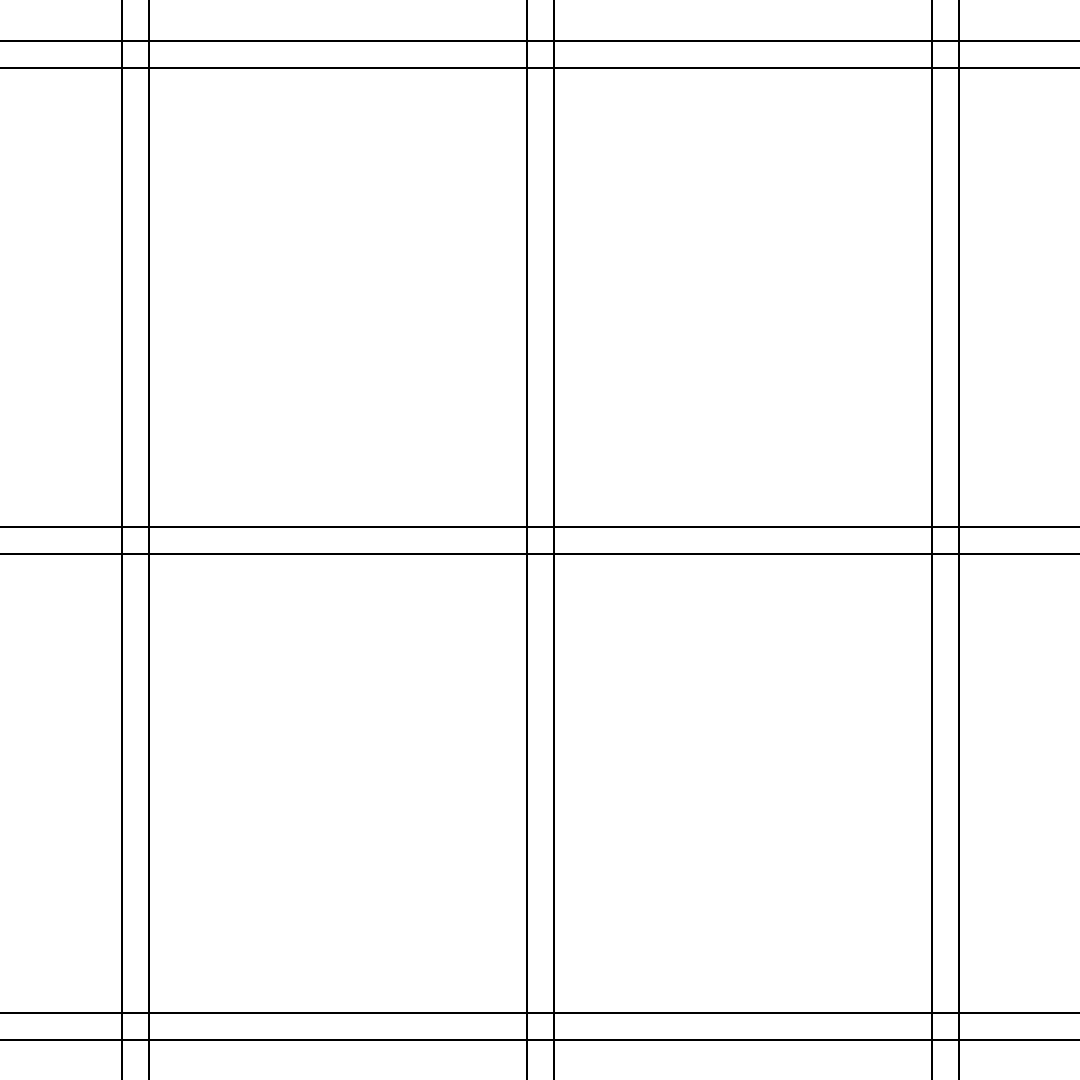
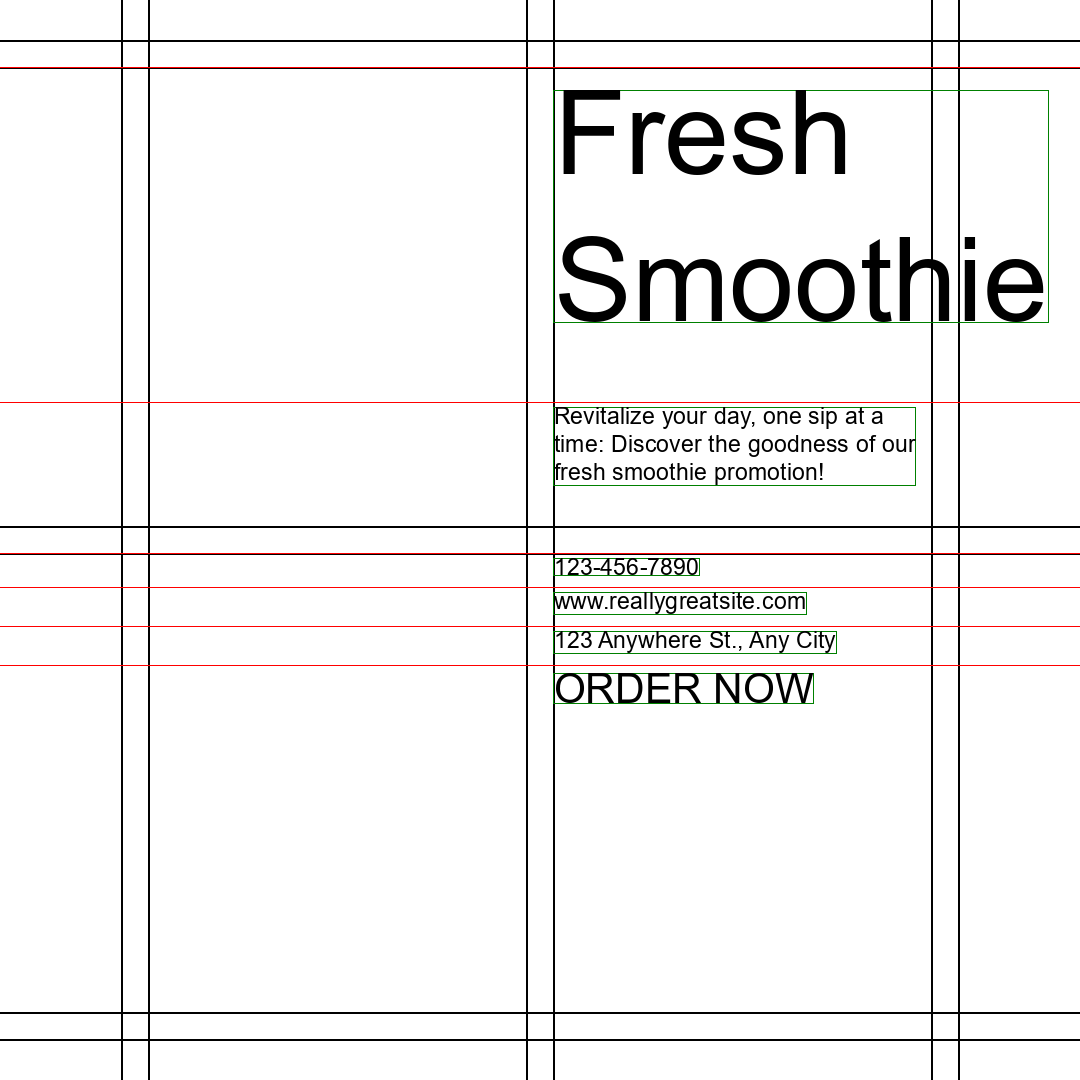
grid system partially working

diff --git a/step4.py b/step4.py
@@ -86,7 +86,8 @@ class TextWrapper(object):
                     buf.append(word)
                 else:
                     # word doesn't fit in line
-                    wrapped_lines.append(' '.join(buf))
+                    if (len(buf) > 0):
+                        wrapped_lines.append(' '.join(buf))
                     buf = [word]
                     buf_width = word_width
 
@@ -103,24 +104,24 @@ def update_font_factor(font, text, priority, canvas_width, canvas_height):
     max_size = canvas_width * prominence_ranges[priority-1]
     min_size = canvas_width * prominence_ranges[priority]
     while min_size < max_size:
-        print("font_size: ", font_size, " | max_size: ", max_size, " | min_size: ", min_size)
+        # print("font_size: ", font_size, " | max_size: ", max_size, " | min_size: ", min_size)
         font = font.font_variant(size=font_size)
         temp_image = Image.new('RGB', (int(max_size), int(canvas_height)), color='white')
         temp_draw = ImageDraw.Draw(temp_image)
         text_width = temp_draw.textlength(text, font=font)
-        print("text_width: ", text_width)
+        # print("text_width: ", text_width)
         if text_width >= max_size:
-            print ("condition 1")
+            # print ("condition 1")
             font_size = font_size * 0.8
         elif text_width <= min_size:
-            print ("condition 2")
+            # print ("condition 2")
             font_size = font_size * 1.25
         else:
             font_factor = font_size/font_sizes[priority-1]
-            print ("condition 3 ", font_factor)
+            # print ("condition 3 ", font_factor)
             return font_size
         
-def draw(width, height, font, grid:Grid):
+def draw(width, height, font, grid:Grid, groups):
     rows = grid.rows
     cols = grid.cols
     half_gutter_spacing = grid.gutter_margin/2
@@ -135,6 +136,36 @@ def draw(width, height, font, grid:Grid):
     for i in range(0, cols+1):
         draw.line((grid.horizontal_padding + i * col_spacing - half_gutter_spacing, 0, grid.horizontal_padding + i * col_spacing - half_gutter_spacing, height), fill="black", width=2)
         draw.line((grid.horizontal_padding + i * col_spacing + half_gutter_spacing, 0, grid.horizontal_padding + i * col_spacing + half_gutter_spacing, height), fill="black", width=2)
+
+    for group in groups:
+        elements = group['elements']
+        for el in elements:
+            update_font_factor(
+                font=font,
+                text=el['description'],
+                priority=el['prominence'],
+                canvas_height=height,
+                canvas_width=width)
+            
+    for group in groups:
+        elements = group['elements']
+        col = group['col']
+        row = group['row']
+        y = grid.vertical_padding + row * row_spacing + half_gutter_spacing
+        for i in range(len(elements)):
+            text = elements[i]['description']
+            text_position = (grid.horizontal_padding + col * col_spacing + half_gutter_spacing, y)
+            draw.line((0,y,width,y),fill="red", width=1)
+            priority = elements[i]['prominence']
+            ft = font.font_variant(size=font_sizes[priority-1] * font_factor)
+            # to test multiline support remove the comment in the following line 
+            # max_width = prominence_ranges[priority-1] * width # * 0.8
+            wrapper = TextWrapper(text, ft, col_spacing - 2 * half_gutter_spacing)
+            wrapped_text = wrapper.wrapped_text()
+            xy0, xy1, xy2, xy3 = draw.multiline_textbbox (text_position, wrapped_text, spacing=line_spacing[priority-1], font=ft)
+            draw.rectangle((xy0, xy1, xy2, xy3), outline='green')
+            draw.multiline_text(text_position, wrapped_text, spacing=line_spacing[priority-1], fill="black", font=ft)
+            y = xy3 + 2 * line_spacing[priority-1]
 
     # cols = [0,0,0,1,1,1,2,2,2]
     # rows = [0,1,2,0,1,2,0,1,2]
@@ -171,17 +202,11 @@ if __name__ == "__main__":
             cols=step4_input['grid']['cols'],
             rows=step4_input['grid']['rows']
         )
-        # for el in step4_input['elements']:
-        #     update_font_factor(
-        #         font=font,
-        #         text=el['description'],
-        #         priority=el['prominence'],
-        #         canvas_height=step4_input['height'],
-        #         canvas_width=step4_input['width'])
         img = draw(
             height=step4_input['height'],
             width=step4_input['width'],
             font=font,
-            grid=grid)
+            grid=grid,
+            groups=step4_input['groups'])
         img.save(join(config['STEP4_OUTPUT_FOLDER'],f"{file}.png"))
         i = i + 1
